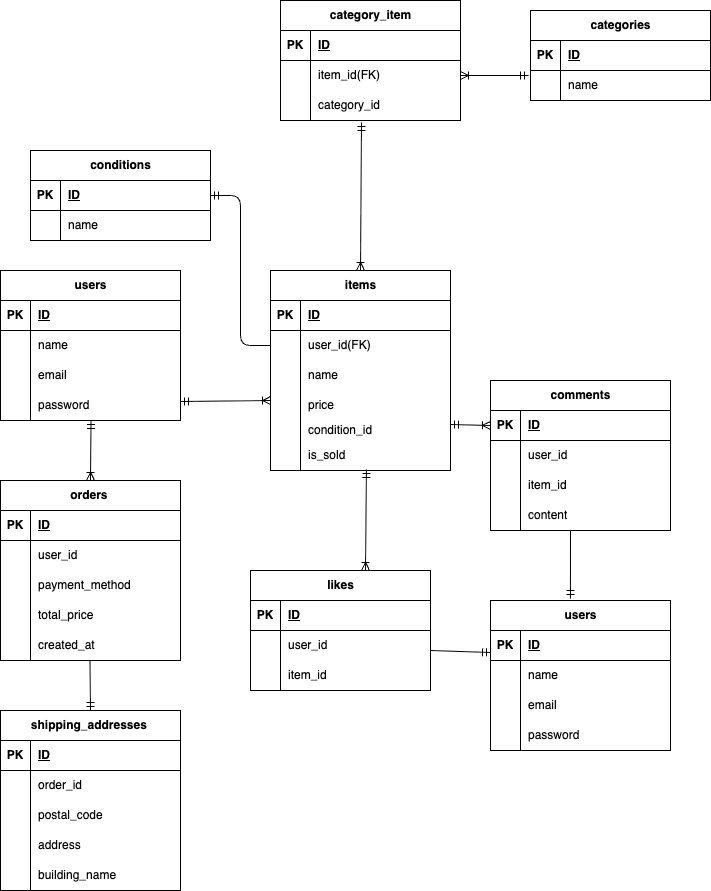
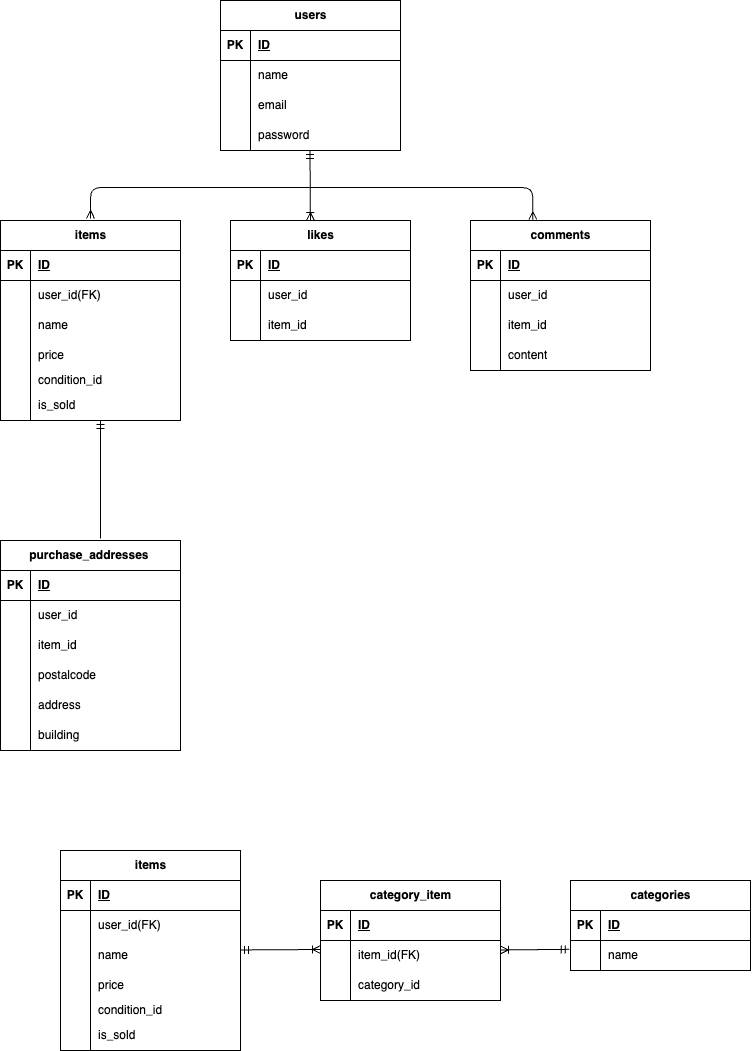
docs/flea-market_application.dio

diff --git a/README.md b/README.md
@@ -70,6 +70,16 @@ Laravel 開発環境構築
 ## カード決済：Stripe（テスト環境）対応
 
 購入画面にて、Stripe を利用したカード決済機能を実装しています。
+以下は動作確認用のテストカード番号です。
+
+## 基本テストカード
+
+| 項目 | 値 |
+|------|------|
+| カード番号 | 4242 4242 4242 4242 |
+| 有効期限 | 任意の未来日 (例: 12/34) |
+| CVC | 任意の3桁 (例: 123) |
+| 郵便番号 | 任意 |
 
 ## 使用技術
 
